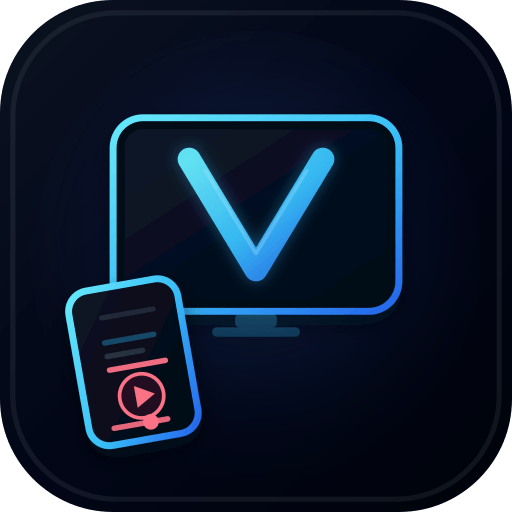
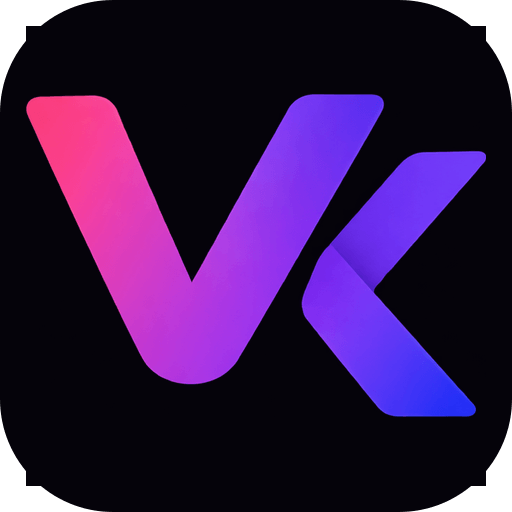
chore(android-tv): sync VKara splash and store assets
- Update splash overlay copy and magenta/purple accent colors
- Refresh icon and Leanback banner from web icon pipeline

diff --git a/apps/android-tv/App.tsx b/apps/android-tv/App.tsx
@@ -182,15 +182,15 @@ export default function App() {
 
             {!handoffCommitted && !error ? (
                 <View style={styles.overlay} pointerEvents="none">
-                    <Text style={styles.brand}>vKara</Text>
-                    <ActivityIndicator color="#38bdf8" size="large" style={styles.spinner} />
+                    <Text style={styles.brand}>VKara</Text>
+                    <ActivityIndicator color="#e53e7d" size="large" style={styles.spinner} />
                     <Text style={styles.hint}>Loading karaoke…</Text>
                 </View>
             ) : null}
 
             {error ? (
                 <View style={styles.overlay}>
-                    <Text style={styles.brand}>vKara</Text>
+                    <Text style={styles.brand}>VKara</Text>
                     <Text style={styles.errorText}>{error}</Text>
                     <Pressable
                         onPress={() => {
@@ -226,7 +226,7 @@ const styles = StyleSheet.create({
         paddingHorizontal: 48,
     },
     brand: {
-        color: '#e6f4ff',
+        color: '#f8fafc',
         fontSize: 48,
         fontWeight: '700',
         marginBottom: 24,
@@ -248,7 +248,7 @@ const styles = StyleSheet.create({
         maxWidth: 720,
     },
     retryBtn: {
-        backgroundColor: '#2563eb',
+        backgroundColor: '#7c3aed',
         paddingHorizontal: 32,
         paddingVertical: 16,
         borderRadius: 8,

diff --git a/apps/android-tv/app.config.js b/apps/android-tv/app.config.js
@@ -34,7 +34,7 @@ module.exports = ({ config }) => {
 
     return {
         ...config,
-        name: 'vKara',
+        name: 'VKara',
         slug: 'vkara-tv',
         version,
         orientation: 'landscape',
@@ -44,7 +44,7 @@ module.exports = ({ config }) => {
         splash: {
             image: './assets/icon.png',
             resizeMode: 'contain',
-            backgroundColor: '#020617',
+            backgroundColor: '#05030a',
         },
         android: {
             ...(typeof config.android === 'object' && config.android ? config.android : {}),
@@ -52,12 +52,12 @@ module.exports = ({ config }) => {
             versionCode,
             adaptiveIcon: {
                 foregroundImage: './assets/icon.png',
-                backgroundColor: '#020617',
+                backgroundColor: '#05030a',
             },
             splash: {
                 image: './assets/icon.png',
                 resizeMode: 'contain',
-                backgroundColor: '#020617',
+                backgroundColor: '#05030a',
             },
         },
         plugins: [
